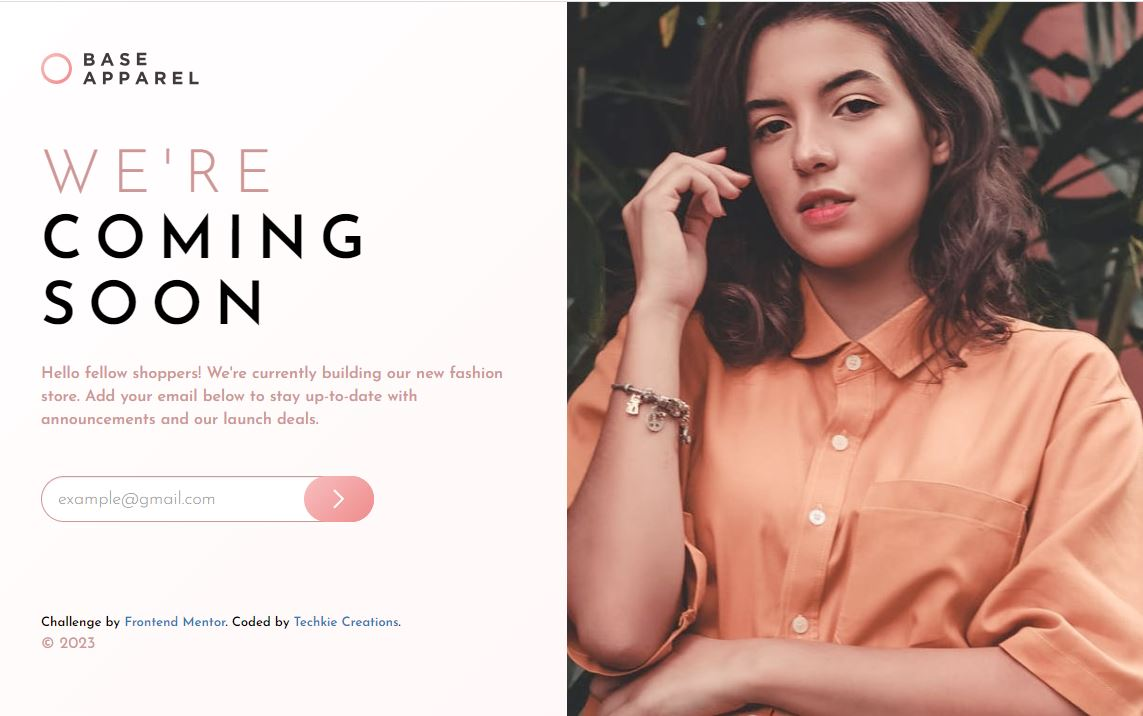
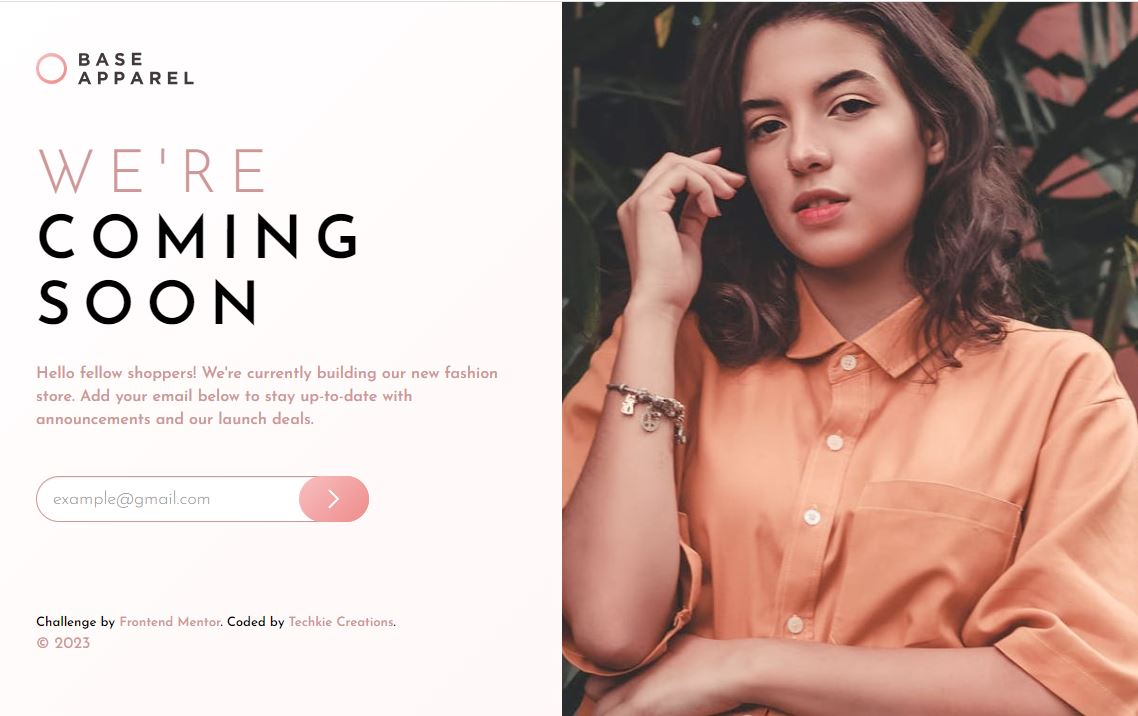
updated outlook

diff --git a/styles.css b/styles.css
@@ -110,6 +110,10 @@ h3 {
     font-weight: 400;
 }
 
+.attribution a {
+    color: hsl(0, 36%, 70%);
+}
+
 /* EXTRA */
 
 .none {
